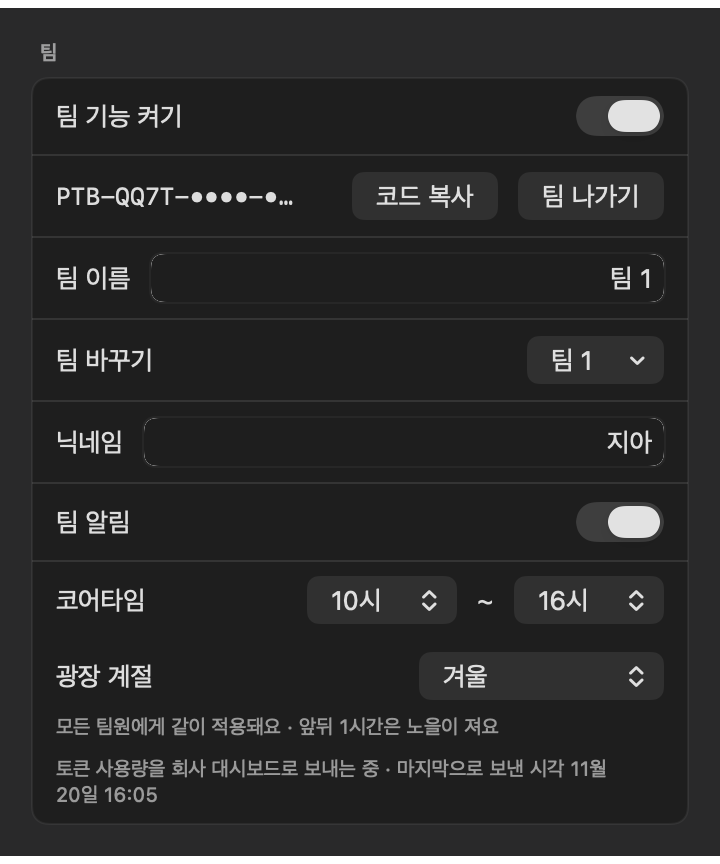
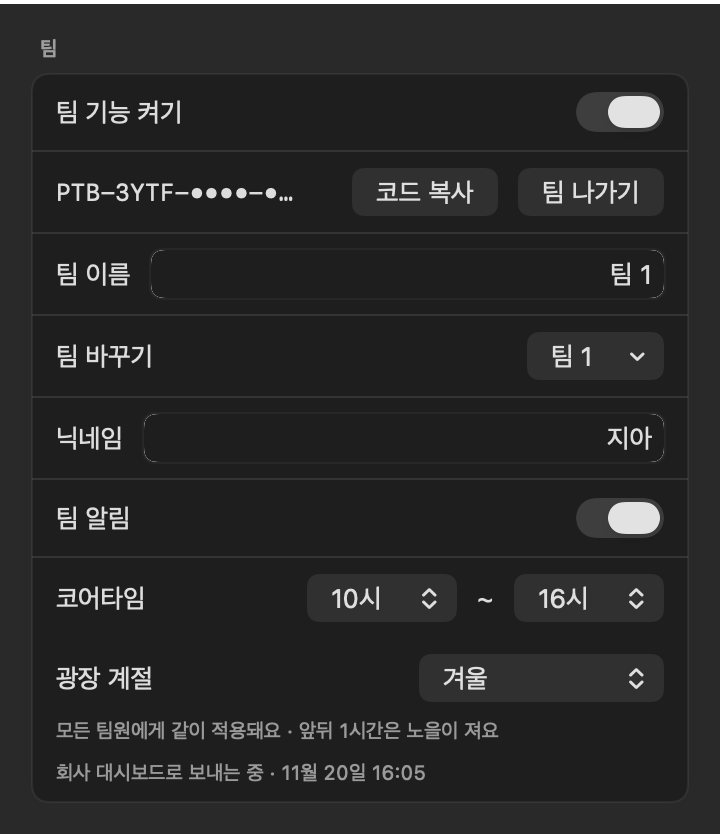
fix(team): fit the usage report line on one line
On Windows the two-line report text made the Settings page 32 px taller than in
v2.5.635, and the Home -> Settings swap painted in 5 frames (budget 4) on a slow
runner in the v2.5.636 release run. The line now reads
"회사 대시보드로 보내는 중 · 11월 20일 16:05" or "… · 아직 안 보냄" on both
systems. TEAM.md, the tests and the Mac capture follow.

diff --git a/Tests/PokeTokenBarTests/SettingsModelTests.swift b/Tests/PokeTokenBarTests/SettingsModelTests.swift
@@ -107,14 +107,14 @@ final class SettingsModelTests: XCTestCase {
 
     func testTheUsageReportCaptionSaysNotYetBeforeTheFirstSend() async {
         XCTAssertEqual(SettingsModel.usageReportCaption(lastSent: nil),
-                       "토큰 사용량을 회사 대시보드로 보내는 중 · 아직 보내지 않았어요")
+                       "회사 대시보드로 보내는 중 · 아직 안 보냄")
     }
 
     func testTheUsageReportCaptionShowsTheLastSendTime() async {
         let l = L(.ko)
         let at = Date(timeIntervalSince1970: 1_800_000_000)
         XCTAssertEqual(SettingsModel.usageReportCaption(lastSent: at),
-                       "토큰 사용량을 회사 대시보드로 보내는 중 · 마지막으로 보낸 시각 \(l.teamScheduleDate(at))")
+                       "회사 대시보드로 보내는 중 · \(l.teamScheduleDate(at))")
     }
 
     func testTheReportLineFollowsTheScheduleCaptionOnlyWhileTheTeamIsReady() async {

diff --git a/Sources/PokeTokenBar/Team/TeamLocalization.swift b/Sources/PokeTokenBar/Team/TeamLocalization.swift
@@ -85,8 +85,8 @@ extension L {
     }
     /// 팀이 준비된 기기가 사용량을 회사 대시보드로 보낸다는 안내. 보낸 적이 없으면 그렇게 말한다.
     func teamUsageReportCaption(lastSent: Date?) -> String {
-        guard let date = lastSent else { return "토큰 사용량을 회사 대시보드로 보내는 중 · 아직 보내지 않았어요" }
-        return "토큰 사용량을 회사 대시보드로 보내는 중 · 마지막으로 보낸 시각 \(teamScheduleDate(date))"
+        guard let date = lastSent else { return "회사 대시보드로 보내는 중 · 아직 안 보냄" }
+        return "회사 대시보드로 보내는 중 · \(teamScheduleDate(date))"
     }
     var teamIncompatiblePeer: String { "다른 버전을 쓰는 팀원이 있어요. 모두 최신 버전으로 업데이트해 주세요" }
     var plazaOpen: String { "광장 열기" }

diff --git a/docs/reference/defect-log.md b/docs/reference/defect-log.md
@@ -3358,7 +3358,7 @@ read_when:
 - **직접 원인:** 리포터를 시작하는 조건이 `TeamSettings.isReady` 하나뿐이었다. "이 인스턴스가 진짜 설치인가"를 묻는 조건이 없었다.
 - **왜 못 걸렀나:** 리포터 테스트는 가짜 전송을 주입하므로 실제 전송이 나가는 경로를 한 번도 밟지 않았다. 셀프테스트는 팀 설정을 건드리는 검사와 리포터가 같은 앱 안에 산다는 사실을 아무도 겹쳐 보지 않았다 — 태스크별 리뷰는 각자 파일 안에서만 봤고, 최종 전체 브랜치 리뷰에서 처음 드러났다.
 - **부류 스윕:** 앱의 바깥 쓰기는 이것 하나다. `UpdateChecker`·PokeAPI·한도 조회·팀 연결은 읽기이거나 팀원 사이 로컬 통신이다. 시트 리다이렉트 확인(`WindowsSelftestUsageReport`)은 지원하지 않는 버전으로 보내 시트가 거절하고 아무것도 쓰지 않는다.
-- **고침:** `UsageReporter.shouldRun(stateDirectory:defaultDirectory:isSelftest:)` — 상태 폴더가 기본이고 셀프테스트 실행이 아닐 때만 리포터를 만든다(맥·윈도 공통). 아니면 리포터가 nil 이라 설정 줄은 "아직 보내지 않았어요" 로 읽힌다.
+- **고침:** `UsageReporter.shouldRun(stateDirectory:defaultDirectory:isSelftest:)` — 상태 폴더가 기본이고 셀프테스트 실행이 아닐 때만 리포터를 만든다(맥·윈도 공통). 아니면 리포터가 nil 이라 설정 줄은 "아직 안 보냄" 으로 읽힌다.
 - **영구 캡처:** `UsageReporterTests.testOnlyARealInstallOutsideASelftestReports`(네 분기), `windows-app.yml` 의 "No usage report from selftests" 단계 — 수집한 앱 로그에 `usage report sent|rejected|failed` 줄이 있으면 실패한다.
 - **규칙:** 셀프테스트·CI·개발 인스턴스는 운영 서비스에 쓰지 않는다. 바깥으로 쓰는 코드를 더할 때는 그것을 켜는 조건에 "진짜 설치인가"를 넣고, 그 조건을 CI 가 로그로 한 번 더 확인하게 한다.
 
@@ -3386,3 +3386,4 @@ read_when:
 - **고침:** 보고 줄을 일정 캡션과 **같은 힌트**의 둘째 줄로 넣는다(`SettingsModel.teamCaptionLines`, `WinTeamSection.caption` 이 CR LF 로 잇는다). 창 수는 다시 164 개이고, 맥처럼 두 줄 사이에 구분선이 없다(전의 별도 행은 맥에 없는 구분선을 그렸다).
 - **영구 캡처:** `SettingsModelTests.testTheReportLineFollowsTheScheduleCaptionOnlyWhileTheTeamIsReady`. 예산 자체는 `settings.openCost` 가 이미 지킨다 — 릴리스 모드가 막는다.
 - **규칙:** 윈도 팝오버 페이지에 행을 더하기 전에, 기존 행의 힌트나 라벨에 넣을 수 있는지 먼저 본다. 행을 더했다면 PR 의 windows-app 실행에서 `settings.openCost`·`popover.swapCost` 줄의 `frames with a paint`·`windows made` 를 직접 읽는다(잡이 초록이어도).
+- **후속(같은 날, 두 번째 릴리스 실행 44764713785):** 창이 164 개로 돌아온 뒤에도 설치된 앱의 셀프테스트가 5 프레임을 두 번 쟀다. 둘째 줄이 두 줄로 감겨 설정 페이지가 v2.5.635 보다 32 px 컸고(2356 → 2388), 전환이 3 프레임 위주에서 4 프레임 위주로 옮겨 느린 러너에서 5 가 됐다. 사용자 결정으로 문구를 한 줄로 줄였다: "회사 대시보드로 보내는 중 · 11월 20일 16:05" / "… · 아직 안 보냄"(맥·윈도 같은 문구). 예산(4)은 그대로 둔다.
